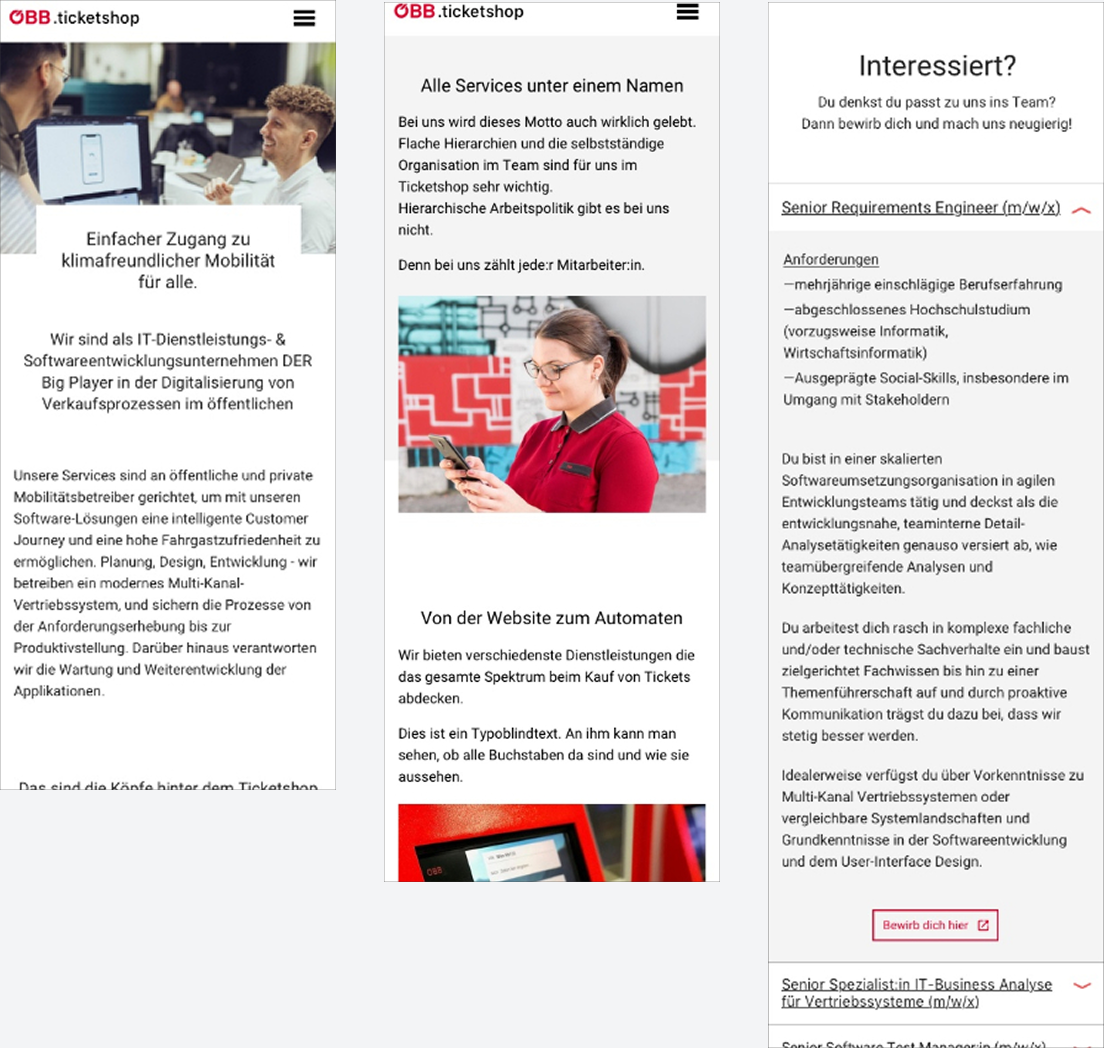
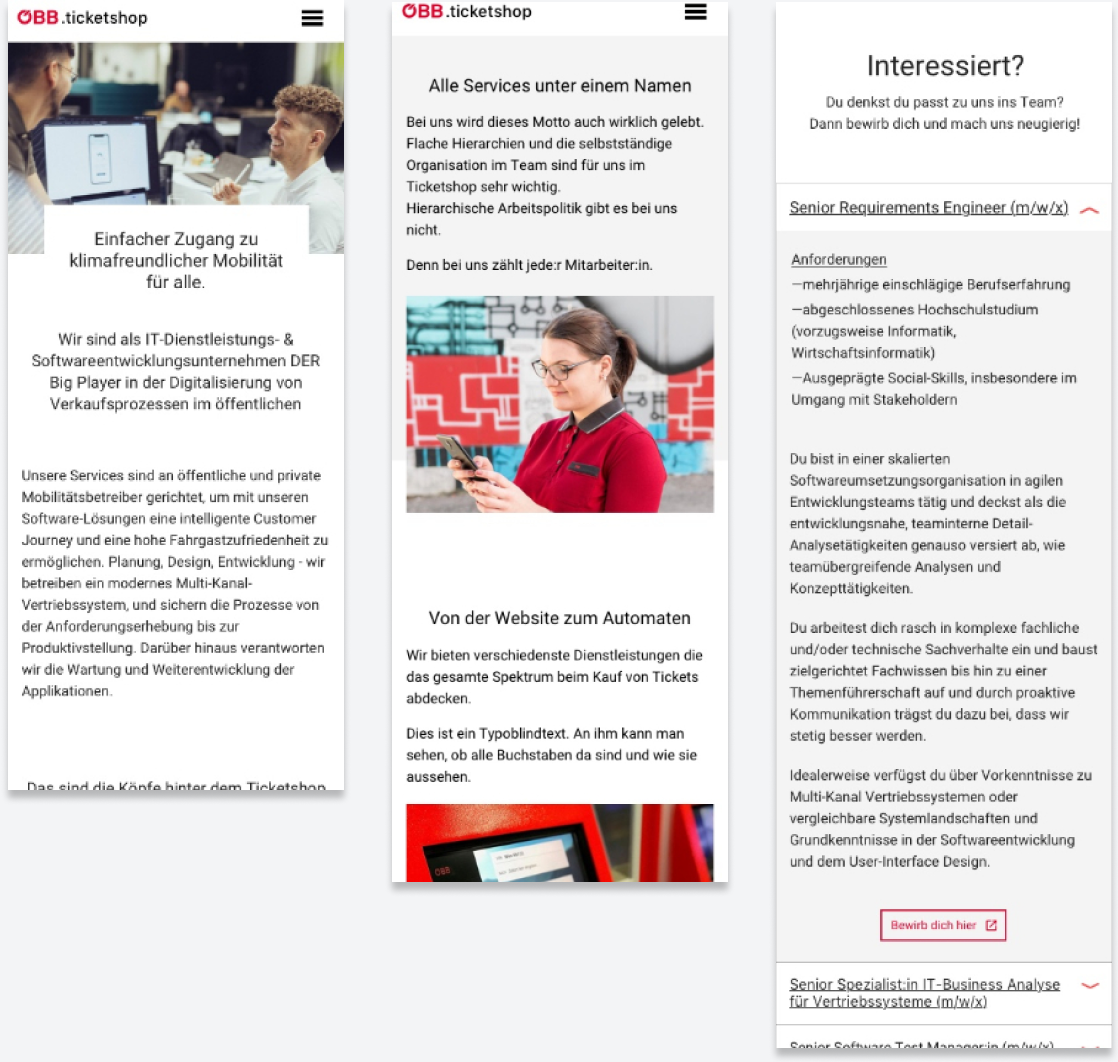
big update

diff --git a/index.html b/index.html
@@ -836,7 +836,7 @@
     <script>
         // --- Demo Mode Config ---
         // Switch this to true to enable the development grid overlay and test projects
-        const IS_DEMO_MODE = true;
+        const IS_DEMO_MODE = false;
 
         // Init Icons
         lucide.createIcons();
@@ -1408,6 +1408,7 @@
 
                                     if (item.width === 'small') span = 4;
                                     else if (item.width === 'five-cols' || item.width === '5-cols') span = 5;
+                                    else if (item.width === 'six-cols' || item.width === '6-cols') span = 6;
                                     else if (item.width === 'medium') span = 8;
                                     else if (item.width === 'large') span = 10;
                                     else if (item.width === 'xlarge') span = 12;
@@ -1478,7 +1479,7 @@
                                     const capDiv = document.createElement('div');
                                     const content = typeof captionText === 'object' ? captionText[currentLang] : captionText;
                                     capDiv.innerHTML = content || '';
-                                    capDiv.className = `${textColorClass} leading-relaxed text-lg md:text-xl font-light mt-2`;
+                                    capDiv.className = `${textColorClass} leading-relaxed text-lg md:text-xl font-light mt-6`;
                                     itemWrapper.appendChild(capDiv);
                                 }
                             } else if (item.role === 'text') {
@@ -1487,6 +1488,12 @@
                                 p.innerHTML = content || '';
                                 // Using standard text-lg font
                                 p.className = `${textColorClass} leading-relaxed text-lg md:text-xl font-light`;
+
+                                // Allow overrides from JSON
+                                if (item.className) {
+                                    p.className += ` ${item.className}`;
+                                }
+
                                 itemWrapper.appendChild(p);
                             }
 
@@ -1501,15 +1508,15 @@
 
                             // Determine span and margin based on layout type
                             let colSpanClass = 'md:col-start-2 md:col-span-10';
-                            let marginClass = 'mt-2'; // Default margin for non-grid layouts
+                            let marginClass = 'mt-4'; // Default margin for non-grid layouts
 
                             if (section.layout === 'grid') {
                                 colSpanClass = 'col-span-full';
                                 // The grid enforces gap-4 (16px), md:gap-6 (24px), lg:gap-8 (32px).
-                                // Individual non-grid captions have exactly 8px (mt-2) visual spacing.
-                                // We counteract the grid gap perfectly: 8px - gap = margin
-                                // 8-16 = -8px (-mt-2) | 8-24 = -16px (-mt-4) | 8-32 = -24px (-mt-6)
-                                marginClass = '-mt-2 md:-mt-4 lg:-mt-6';
+                                // Individual non-grid captions have exactly 16px (mt-4) visual spacing.
+                                // We counteract the grid gap: 16px - gap = margin
+                                // 16-16 = 0px (mt-0) | 16-24 = -8px (-mt-2) | 16-32 = -16px (-mt-4)
+                                marginClass = 'mt-0 md:-mt-2 lg:-mt-4';
                             }
 
                             sectionCapDiv.className = `${colSpanClass} ${textColorClass} leading-relaxed text-lg md:text-xl font-light ${marginClass}`;

diff --git a/README.md b/README.md
@@ -55,7 +55,7 @@ Items are the individual content pieces (images, text) within a section.
 | Property | Type | Options | Description |
 | :--- | :--- | :--- | :--- |
 | `role` | `string` | `image`, `text`, `spacer` | Defines content type. |
-| `width` | `string` | `small`, `medium`, `five-cols`, `large`, `xlarge`, `full`, `full-bleed` | Item width determining column span. |
+| `width` | `string` | `small`, `medium`, `five-cols`, `6-cols`, `large`, `xlarge`, `full`, `full-bleed` | Item width determining column span. |
 | `align` | `string` | `left`, `center`, `right` | Text/content alignment. |
 
 #### Role: "image"
